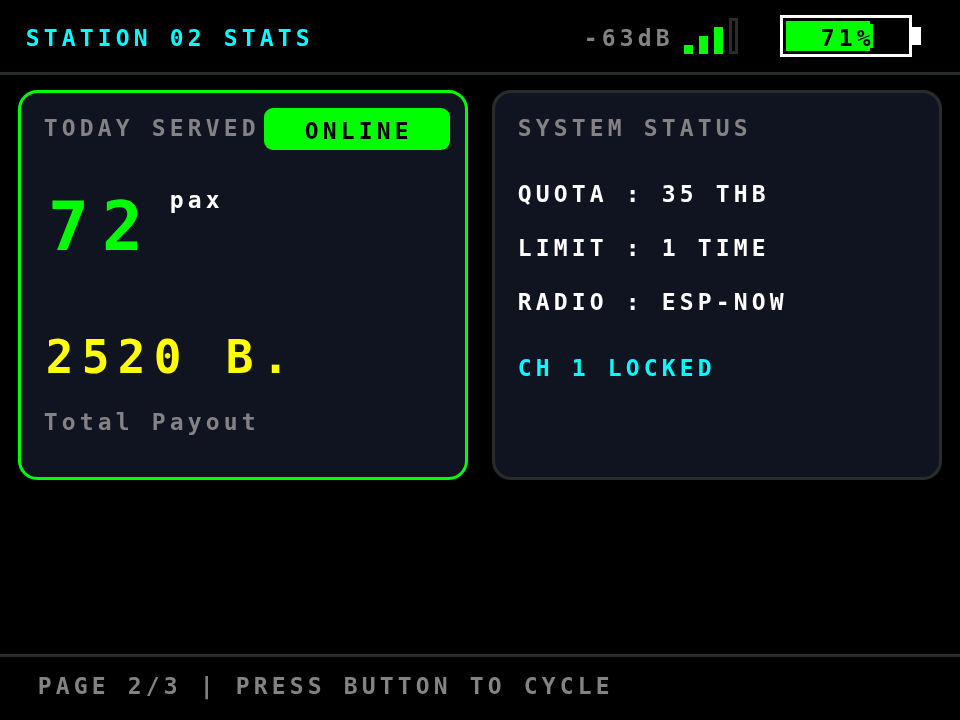
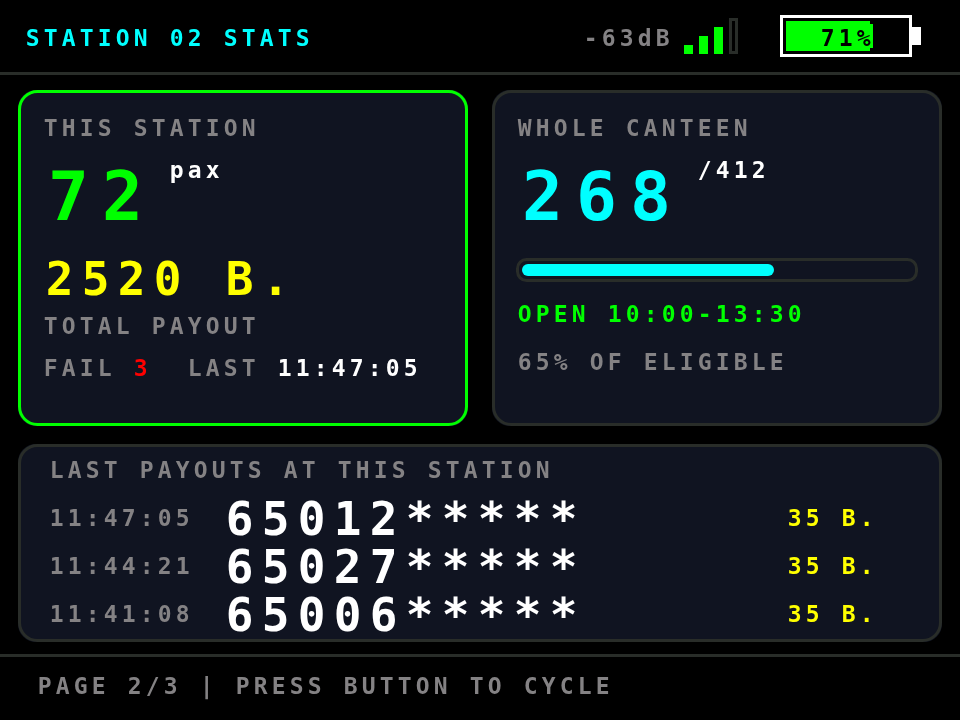
feat(station): เติมข้อมูลหน้า 2 ให้เต็มจอและเป็นข้อมูลสด
เดิมการ์ดจบที่ y=160 แต่แถบล่างเริ่มที่ y=218 เหลือพื้นที่ว่าง 58 พิกเซล
คิดเป็น 24% ของจอ และการ์ดขวาเป็นข้อความคงที่ทั้งใบ

- เพิ่มรายการที่จ่ายล่าสุดสามรายการของร้านนี้ในแถบล่างที่เคยว่าง
  เวลา รหัสนิสิตแบบปิดบังห้าหลักแรก และจำนวนเงิน เก็บเป็นคิววนในแรม
- แทนการ์ดขวาด้วยภาพรวมทั้งโรงอาหาร ยอดใช้สิทธิ์ แถบความคืบหน้า
  และสถานะเปิด-ปิดบริการ โดยแม่ข่ายฝากมากับช่อง message[32] ที่ว่างอยู่
  ในแพ็กเก็ต heartbeat ขนาดแพ็กเก็ตไม่เปลี่ยน อัปเดตทีละเครื่องได้
- เพิ่มจำนวนครั้งที่ไม่สำเร็จและเวลาที่จ่ายล่าสุด ซึ่งเดิม totalScansToday
  ถูกนับไว้แต่ไม่เคยแสดงที่หน้าไหน
- ถอดป้าย ONLINE ที่ซ้ำกับแถบบนและวางห่างข้อความแค่ 2 พิกเซลจนดูเหมือนชน
- แยกส่วนคงที่กับส่วนที่เปลี่ยนค่า รีเฟรชทุก heartbeat ได้โดยจอไม่กะพริบ

Claude-Session: https://claude.ai/code/session_01X9SBq9sFrEp9tTPMPW8bbn

diff --git a/docs/interface-gallery.html b/docs/interface-gallery.html
@@ -286,7 +286,7 @@ const HOST = [
 ];
 const STN = [
   ['tft-stn-01-standby','หน้า 1/3 — รอแตะบัตร','สัญลักษณ์บัตร RFID พร้อมคลื่น contactless วาดด้วยพรีมิทีฟของ Adafruit GFX ไม่ใช้บิตแมป และยกสิทธิ์ 35 บาทขึ้นมาเป็นการ์ดของตัวเองด้วยตัวอักษรขนาดใหญ่'],
-  ['tft-stn-02-stats','หน้า 2/3 — ยอดวันนี้','จำนวนที่จ่ายและยอดเงินของสถานีนี้ ซิงค์จากแม่ข่ายทุกครั้งที่ตอบ heartbeat'],
+  ['tft-stn-02-stats','หน้า 2/3 — ยอดวันนี้','ยอดของร้านนี้ ภาพรวมทั้งโรงอาหารพร้อมแถบความคืบหน้าและสถานะเปิด-ปิดบริการ และรายการที่จ่ายล่าสุดสามรายการ รีเฟรชทุกครั้งที่ตอบ heartbeat โดยวาดเฉพาะส่วนที่เปลี่ยนจึงไม่กะพริบ'],
   ['tft-stn-03-diagnostics','หน้า 3/3 — ตรวจสอบระบบ','เดิมหน้านี้ค่านิ่งและมีช่องว่างเปล่า ตอนนี้อัปเดตทุกครึ่งวินาทีและแสดงครบทุกค่า'],
   ['tft-stn-04-screensaver','โหมดพักหน้าจอ','แตะบัตรหรือกดปุ่มเพื่อปลุกจอ'],
   ['tft-stn-05-scanning','กำลังส่งข้อมูลบัตร','เลขบัตรถูกปิดบังสี่หลักท้ายก่อนแสดงผล'],
